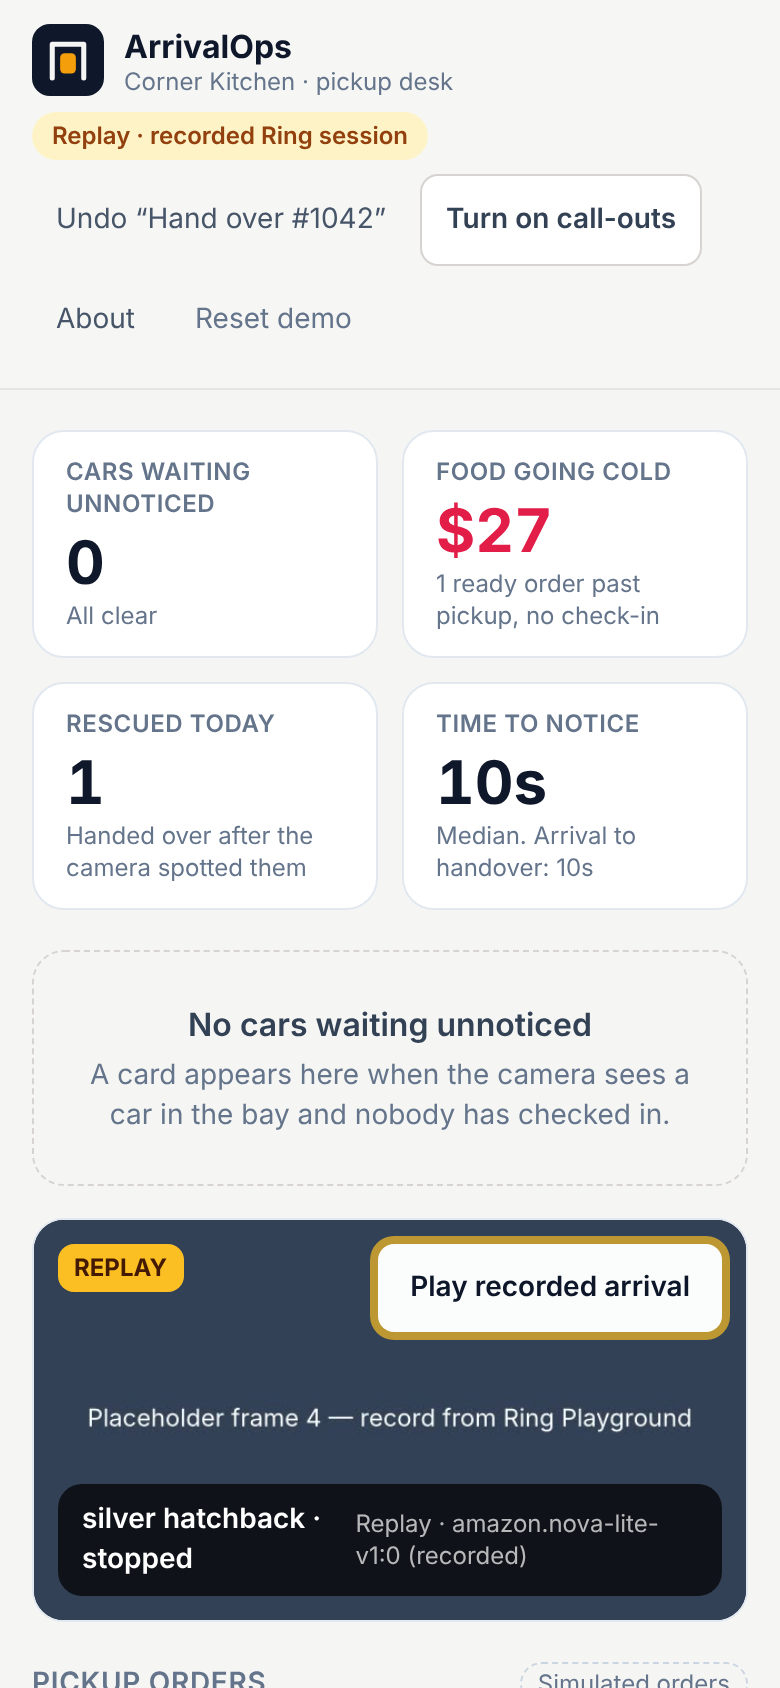
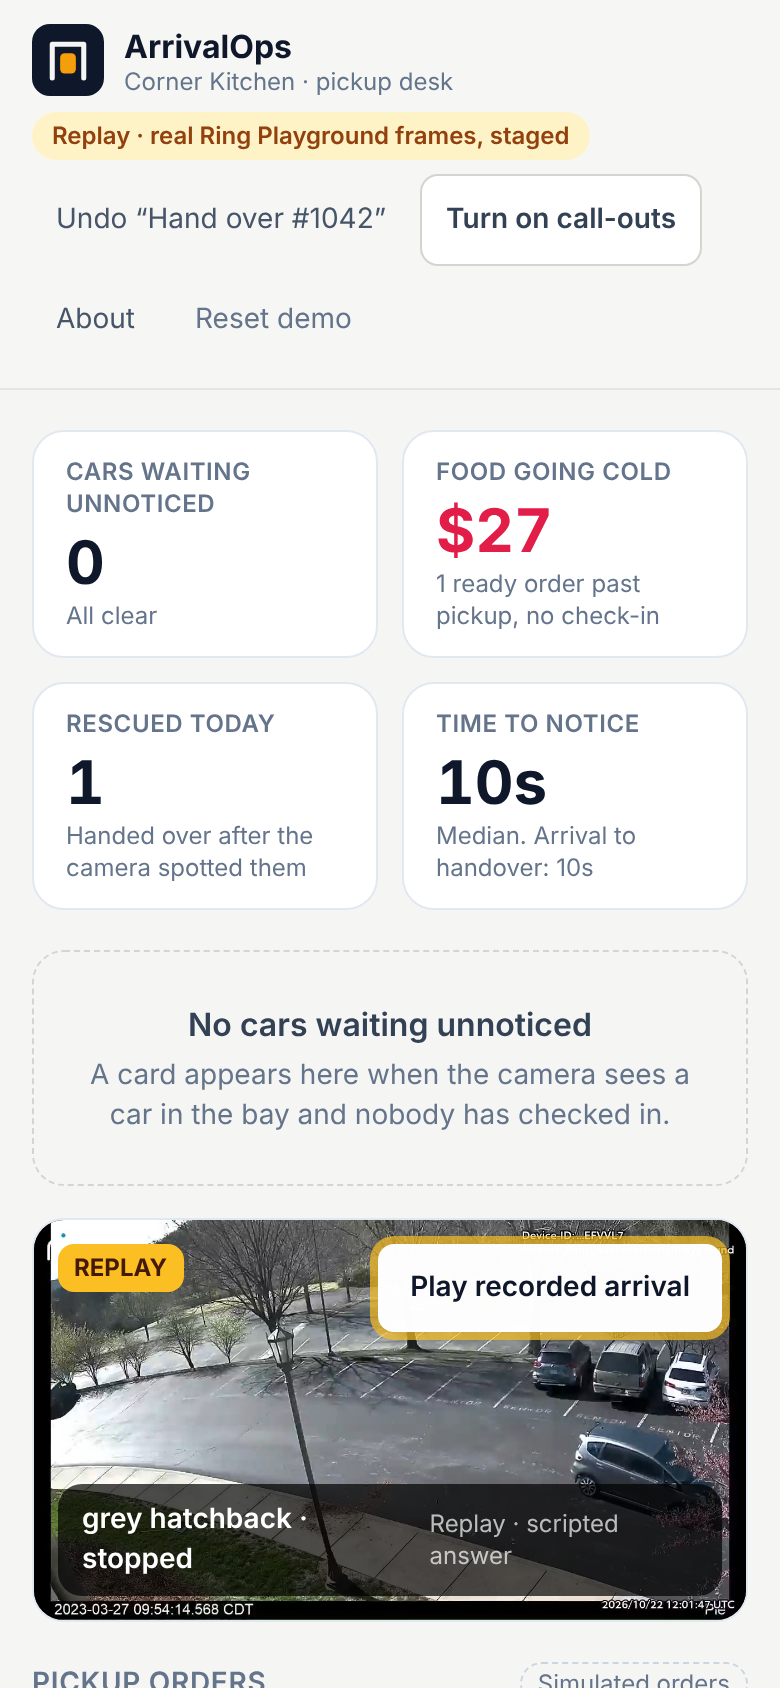
Replay real Ring Playground frames in a staged order
The Playground Vehicle clip shows cars parked and driving away but never a
car pulling in to wait, so replay plays three real frames from it (a car
passing, the bays clear, a car stopped in a bay) in a staged order and
says so on the desk. Vehicle answers stay labelled as scripted until they
are recorded from Bedrock on these exact frames. Grey, gray and silver now
match each other when ranking a customer's car description.

Claude-Session: https://claude.ai/code/session_01XLxdMuz4CHjxyzH3kVFwLZ

Changed region(s): [[0.0308, 0.7085, 0.9538, 0.9858], [0.2462, 0.0616, 0.7692, 0.0924]]

diff --git a/lib/arrivalops/replay.ts b/lib/arrivalops/replay.ts
@@ -1,6 +1,7 @@
-// Replay mode: a recorded run of the Ring Developer Playground "Vehicle" stream, with the Bedrock answers
-// captured at recording time. It lets judges and visitors try ArrivalOps without a Ring token, and is
-// always labelled "Replay" in the UI. Frames live in public/replay/ (see scripts/record-replay.md).
+// Replay mode: a short scene built from real frames of the Ring Developer Playground "Vehicle" stream,
+// captured through this app's WHEP path (see public/replay/manifest.json for when and how). The Playground
+// clip never shows a car pulling in and waiting, so the order and timing of these frames are staged; the
+// desk says so. It lets judges and visitors try ArrivalOps without a Ring token.
 
 import type { VisionResult } from './types'
 
@@ -8,30 +9,31 @@ export interface ReplayStep {
   delayMs: number // after the previous step
   frame: string // path under /public
   vision: Omit<VisionResult, 'latencyMs' | 'model'> & { latencyMs?: number; model?: string }
+  // true once the answer was captured from a real Bedrock call on this exact frame; until then it is the
+  // answer we expect, and the desk labels it as scripted
+  recorded: boolean
   note: string
 }
 
-// Recorded from the Playground Vehicle simulation; see replay/manifest.json when present.
-export const REPLAY_DEVICE = { deviceId: 'replay.playground.vehicle', deviceName: 'Pickup bay (Ring Playground replay)' }
+export const REPLAY_DEVICE = { deviceId: 'replay.playground.vehicle', deviceName: 'Pickup bays (Ring Playground replay)' }
+
+const CAR_IN_BAY = { vehiclePresent: true, stopped: true, colour: 'grey', vehicleType: 'hatchback', confidence: 0.9 } as const
 
 export const DEFAULT_STEPS: ReplayStep[] = [
-  { delayMs: 0, frame: '/replay/01.jpg', note: 'Bay clear', vision: { vehiclePresent: false, stopped: 'unclear', confidence: 0.9 } },
   {
-    delayMs: 4000,
-    frame: '/replay/02.jpg',
-    note: 'Car pulling in',
-    vision: { vehiclePresent: true, stopped: false, colour: 'silver', vehicleType: 'hatchback', confidence: 0.82 },
+    delayMs: 0,
+    frame: '/replay/driveway-car-passing.jpg',
+    note: 'Car driving past',
+    recorded: false,
+    vision: { vehiclePresent: true, stopped: false, colour: 'grey', vehicleType: 'hatchback', confidence: 0.85 },
   },
   {
     delayMs: 4000,
-    frame: '/replay/03.jpg',
-    note: 'Car stops and waits',
-    vision: { vehiclePresent: true, stopped: true, colour: 'silver', vehicleType: 'hatchback', confidence: 0.9 },
+    frame: '/replay/lot-bays-clear.jpg',
+    note: 'Pickup bays clear',
+    recorded: false,
+    vision: { vehiclePresent: false, stopped: 'unclear', confidence: 0.9 },
   },
-  {
-    delayMs: 8000,
-    frame: '/replay/04.jpg',
-    note: 'Still waiting',
-    vision: { vehiclePresent: true, stopped: true, colour: 'silver', vehicleType: 'hatchback', confidence: 0.91 },
-  },
+  { delayMs: 4000, frame: '/replay/lot-car-in-bay.jpg', note: 'Car stops in a bay', recorded: false, vision: CAR_IN_BAY },
+  { delayMs: 8000, frame: '/replay/lot-car-in-bay.jpg', note: 'Still waiting', recorded: false, vision: CAR_IN_BAY },
 ]

diff --git a/app/page.tsx b/app/page.tsx
@@ -52,7 +52,7 @@ export default function Desk() {
           <span
             className={`rounded-full px-2.5 py-1 text-xs font-semibold ${live ? 'bg-emerald-100 text-emerald-800' : 'bg-amber-100 text-amber-800'}`}
           >
-            {live ? 'Live · Ring camera' : 'Replay · recorded Ring session'}
+            {live ? 'Live · Ring camera' : 'Replay · real Ring Playground frames, staged'}
           </span>
           <div className="ml-auto flex flex-wrap items-center gap-1.5">
             {view.canUndo && (
@@ -136,9 +136,13 @@ export default function Desk() {
         </div>
 
         <footer className="pb-6 text-xs text-slate-500">
-          Orders and check-ins are simulated demo data. Camera frames come from the Ring Developer Playground
-          {live ? ' (live)' : ' (recorded)'}; vehicle checks run on Amazon Bedrock ({view.mode?.visionModel}). Licence plates and faces are
-          never read.
+          Orders and check-ins are simulated demo data.{' '}
+          {live
+            ? `Video is live from the Ring Developer Playground and each changed frame is checked on Amazon Bedrock (${view.mode?.visionModel}).`
+            : view.mode?.replayAnswersRecorded
+              ? `Replay uses real Ring Developer Playground frames in a staged order, with the answers Amazon Bedrock (${view.mode?.visionModel}) gave for each frame.`
+              : 'Replay uses real Ring Developer Playground frames in a staged order; the vehicle answers shown are scripted, not live model output.'}{' '}
+          Licence plates and faces are never read.
         </footer>
       </div>
 

diff --git a/lib/arrivalops/reconcile.ts b/lib/arrivalops/reconcile.ts
@@ -36,13 +36,17 @@ export function isDue(order: Order, now: Date): boolean {
 
 const WORDS = /[a-z]+/g
 
+// People and models name the same car colour differently; treat these as one.
+const SAME_COLOUR: Record<string, string> = { gray: 'grey', silver: 'grey' }
+const words = (s: string) => (s.toLowerCase().match(WORDS) ?? []).map((w) => SAME_COLOUR[w] ?? w)
+
 /** Rank due orders for a sighting: a matching customer-provided vehicle hint first, then pickup time. */
 export function rankCandidates(orders: Order[], obs: Observation, now: Date): string[] {
-  const seen = new Set([obs.vision.colour, obs.vision.vehicleType].join(' ').toLowerCase().match(WORDS) ?? [])
+  const seen = new Set(words([obs.vision.colour, obs.vision.vehicleType].join(' ')))
   return orders
     .filter((o) => isDue(o, now))
     .map((o) => {
-      const hint = o.vehicleHint?.toLowerCase().match(WORDS) ?? []
+      const hint = o.vehicleHint ? words(o.vehicleHint) : []
       const hintScore = hint.filter((w) => seen.has(w)).length
       const minutesOff = Math.abs(now.getTime() - ms(o.pickupAt)) / 60_000
       return { id: o.id, score: hintScore * 2 + Math.max(0, 1 - minutesOff / 60) }

diff --git a/app/components/desk/CameraPanel.tsx b/app/components/desk/CameraPanel.tsx
@@ -116,7 +116,7 @@ export function CameraPanel({ live, latest, replay, startReplay, stopReplay, onO
               <img src={replayFrame} alt="Recorded Ring Playground frame" className="h-full w-full object-cover" />
             ) : (
               <div className="flex h-full flex-col items-center justify-center gap-1 text-center text-slate-300">
-                <p className="font-semibold">Pickup bay · recorded Ring Playground session</p>
+                <p className="font-semibold">Pickup bays · real Ring Playground frames</p>
                 <p className="text-sm text-slate-400">Press Play to watch a car arrive without checking in.</p>
               </div>
             )}

diff --git a/app/api/arrivalops/replay/route.ts b/app/api/arrivalops/replay/route.ts
@@ -11,7 +11,7 @@ export async function POST(request: NextRequest) {
   const { step } = await request.json().catch(() => ({ step: -1 }))
   const s = DEFAULT_STEPS[step]
   if (!Number.isInteger(step) || !s) return NextResponse.json({ error: 'Unknown replay step' }, { status: 400 })
-  const vision = { latencyMs: 0, model: `${MODEL_ID} (recorded)`, ...s.vision }
+  const vision = { latencyMs: 0, model: s.recorded ? `${MODEL_ID} (recorded)` : 'scripted answer', ...s.vision }
   const result = recordObservation({ ...REPLAY_DEVICE, source: 'replay', frame: s.frame }, vision)
   const next = DEFAULT_STEPS[step + 1]
   return NextResponse.json({

diff --git a/app/components/desk/Activity.tsx b/app/components/desk/Activity.tsx
@@ -24,7 +24,7 @@ export function Activity({ entries }: { entries: ActivityEntry[] }) {
         {entries.slice(0, 12).map((e) => (
           <li key={e.id} className="flex items-start gap-3 text-sm">
             <span className={`mt-1.5 h-2 w-2 flex-none rounded-full ${DOT[e.kind]}`} aria-hidden />
-            <span className="w-16 flex-none tabular-nums text-slate-400">{time(e.at)}</span>
+            <span className="w-20 flex-none whitespace-nowrap tabular-nums text-slate-400">{time(e.at)}</span>
             <span className="text-slate-700">{e.text}</span>
           </li>
         ))}

diff --git a/lib/arrivalops/reconcile.test.ts b/lib/arrivalops/reconcile.test.ts
@@ -59,6 +59,11 @@ describe('observe', () => {
     expect(c.candidateOrderIds).toEqual(['o1047', 'o1042']) // o1050 is 90 min away and not ready
   })
 
+  it('treats grey, gray and silver as the same colour when ranking', () => {
+    const c = observe(state, obs(1, { colour: 'gray' }), ctx(1))!
+    expect(c.candidateOrderIds[0]).toBe('o1047')
+  })
+
   it('does nothing when the bay is empty or the car is passing', () => {
     expect(observe(state, obs(1, { vehiclePresent: false }), ctx(1))).toBeNull()
     expect(observe(state, obs(1, { stopped: false }), ctx(1))).toBeNull()

diff --git a/app/api/arrivalops/route.ts b/app/api/arrivalops/route.ts
@@ -1,5 +1,6 @@
 import { NextRequest, NextResponse } from 'next/server'
 import { ActionError } from '@/lib/arrivalops/reconcile'
+import { DEFAULT_STEPS } from '@/lib/arrivalops/replay'
 import { dispatch, view } from '@/lib/arrivalops/store'
 import { MODEL_ID } from '@/lib/arrivalops/vision'
 
@@ -11,6 +12,7 @@ export function GET() {
     mode: {
       live: Boolean(process.env.RING_ACCESS_TOKEN || process.env.RING_REFRESH_TOKEN),
       visionModel: MODEL_ID,
+      replayAnswersRecorded: DEFAULT_STEPS.every((s) => s.recorded),
     },
   })
 }

diff --git a/app/components/desk/AboutDemo.tsx b/app/components/desk/AboutDemo.tsx
@@ -9,7 +9,7 @@ const ROWS: Array<[string, string]> = [
   ],
   [
     'Amazon Bedrock (Nova Lite) answering on frames from that video',
-    'Replay mode: a recorded Playground session with the model’s recorded answers, for visitors without a Ring token',
+    'Replay mode: real frames from the Playground’s Vehicle stream, played in a staged order (the clip never shows a car pulling in and waiting)',
   ],
   ['Reconciliation, metrics, undo and this desk', 'The 45-second call-out plays on this device, not on a Ring Chime'],
 ]

diff --git a/lib/arrivalops/seed.ts b/lib/arrivalops/seed.ts
@@ -4,7 +4,7 @@
 import type { Order, State } from './types'
 
 const PEOPLE: Array<[string, string[], number, string | undefined]> = [
-  ['Sarah M.', ['Chicken shawarma bowl', 'Mint lemonade'], 1850, 'silver hatchback'],
+  ['Sarah M.', ['Chicken shawarma bowl', 'Mint lemonade'], 1850, 'grey hatchback'],
   ['Daniel K.', ['Margherita pizza', 'Garlic knots'], 2690, undefined],
   ['Priya S.', ['Veg thali x2'], 3200, 'red suv'],
   ['Tom W.', ['Fish & chips', 'Coleslaw'], 1575, undefined],

diff --git a/lib/arrivalops/types.ts b/lib/arrivalops/types.ts
@@ -10,7 +10,7 @@ export interface Order {
   totalCents: number
   readyAt: string // ISO
   pickupAt: string // promised pickup time, ISO
-  vehicleHint?: string // optional, customer-provided at checkout ("silver hatchback")
+  vehicleHint?: string // optional, customer-provided at checkout ("grey hatchback")
   checkIn?: { at: string; source: CheckInSource }
   handedOverAt?: string
 }

diff --git a/lib/arrivalops/replay.test.ts b/lib/arrivalops/replay.test.ts
@@ -25,6 +25,6 @@ describe('replay recording', () => {
     const open = last!.view.cases.filter((c) => c.status === 'needs_review')
     expect(open).toHaveLength(1)
     const first = last!.view.orders.find((o) => o.id === open[0].candidateOrderIds[0])
-    expect(first?.vehicleHint).toBe('silver hatchback')
+    expect(first?.vehicleHint).toBe('grey hatchback')
   })
 })
